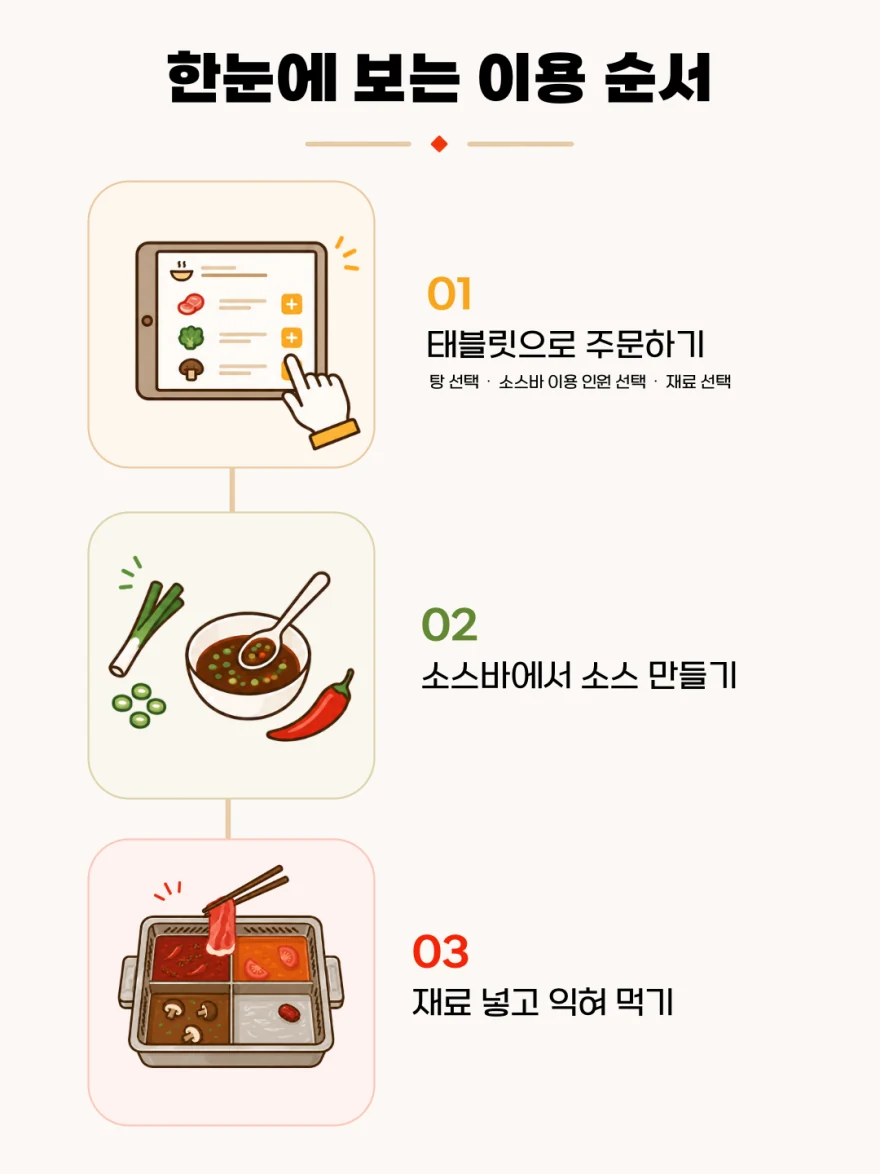
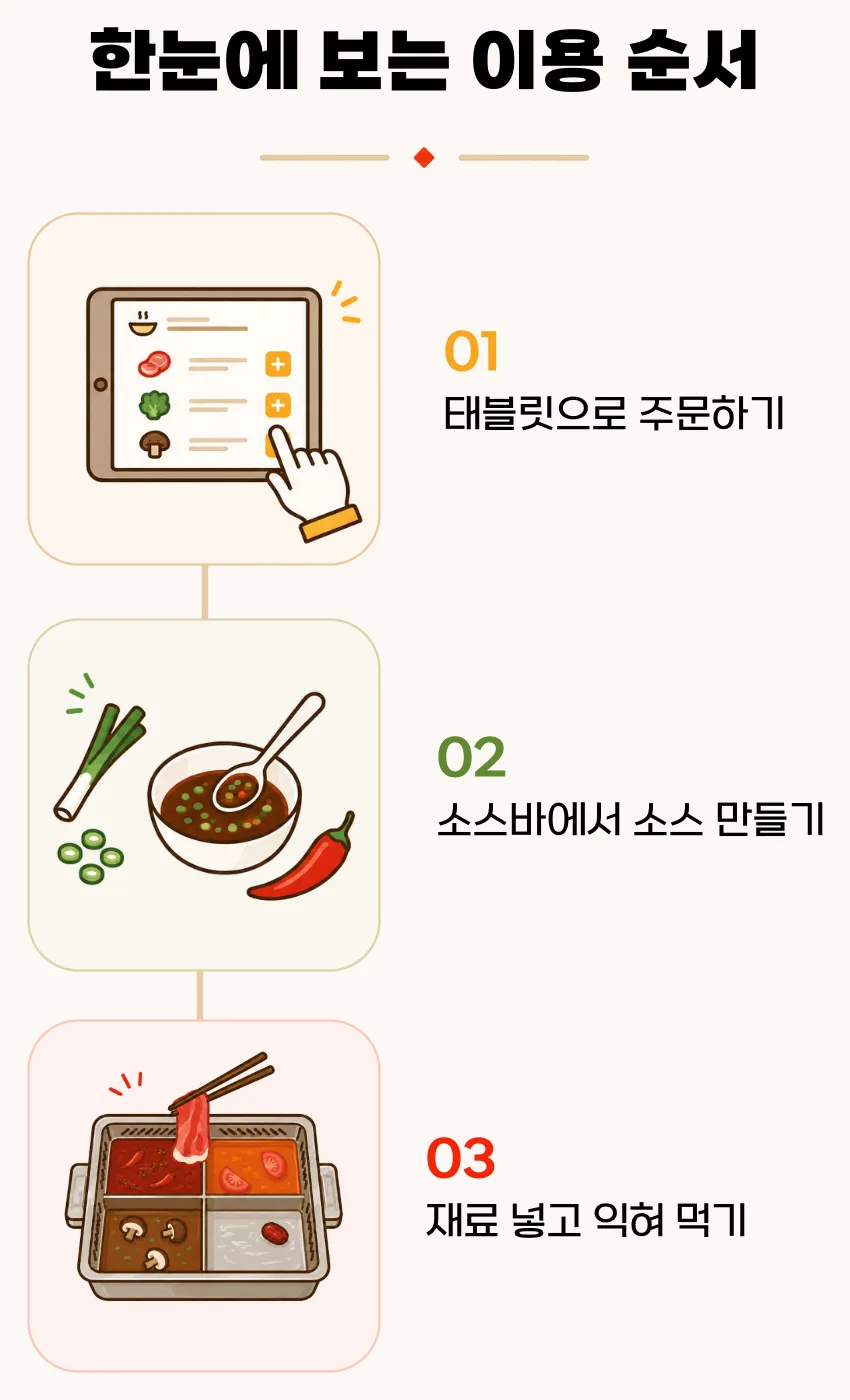
가이드 이미지 2장 교체본 반영
사용자가 다시 만든 '한눈에 보는 이용 순서'·'태블릿으로 주문하기' 원본을
webp로 변환해 넣었다. 비율이 바뀌어서 width/height 속성도 새 크기로 맞췄다
(안 맞추면 이미지 로드 전 자리가 어긋난다).

- order-overview  880×1174 → 850×1400 (원본이 850이라 확대 안 함)
- tablet-order    880×660  → 880×620

diff --git a/script.js b/script.js
@@ -875,12 +875,12 @@
       '태블릿 주문부터 소스 만들기까지, 하딜고고가 하이디라오를 편하게 즐길 수 있도록 도와드릴게요.</p>' +
       // 이미지 안에 제목과 01·02·03 문구가 다 있어 웹 글자로 중복 표시하지 않음(사용자 지정).
       '<figure class="col-figure col-figure--no-caption">' +
-        '<img src="assets/columns/guide/order-overview.webp?v=1" width="880" height="1174" loading="lazy" decoding="async" alt="한눈에 보는 이용 순서 — 01 태블릿으로 주문하기, 02 소스바에서 소스 만들기, 03 재료 넣고 익혀 먹기">' +
+        '<img src="assets/columns/guide/order-overview.webp?v=2" width="850" height="1400" loading="lazy" decoding="async" alt="한눈에 보는 이용 순서 — 01 태블릿으로 주문하기, 02 소스바에서 소스 만들기, 03 재료 넣고 익혀 먹기">' +
       '</figure>' +
       '<h3>01 태블릿으로 주문하기</h3>' +
       '<p>자리를 안내받으면, 태블릿에서 가장 먼저 먹고 싶은 탕을 골라요.</p>' +
       '<figure class="col-figure col-figure--no-caption">' +
-        '<img src="assets/columns/guide/tablet-order.webp?v=1" width="880" height="660" loading="lazy" decoding="async" alt="태블릿 주문 화면에서 전골 4가지 맛을 골라 네 칸으로 나뉜 냄비가 표시된 모습">' +
+        '<img src="assets/columns/guide/tablet-order.webp?v=2" width="880" height="620" loading="lazy" decoding="async" alt="태블릿 주문 화면에서 전골 4가지 맛을 골라 네 칸으로 나뉜 냄비가 표시된 모습">' +
       '</figure>' +
       // '전골'은 태블릿 실제 선택지 명칭이라 그대로 쓰고, 그 뒤로는 탕·물 칸으로 통일(기획초안 지침).
       // 전골=냄비를 몇 칸으로 나눌지, 탕=각 칸에 담기는 국물 — 첫 방문자가 둘을 헷갈려서 한 문장에 관계를 드러냄.

diff --git a/index.html b/index.html
@@ -750,7 +750,7 @@
   </div>
 </div>
 
-<script src="script.js?v=430"></script>
+<script src="script.js?v=431"></script>
 
 <!-- Cloudflare Web Analytics --><script type='module' src='https://static.cloudflareinsights.com/beacon.min.js' data-cf-beacon='{"token": "d7c0ac8f66544156bca23d2c7f84c961"}'></script><!-- End Cloudflare Web Analytics -->
 </body>

diff --git a/HANDOVER.md b/HANDOVER.md
@@ -133,20 +133,24 @@ STEP 1에서 확정된 편집 판단(되돌리지 말 것):
 
 ```text
 /Users/Macmini_J/ClaudeCode/02. Data/Haidilgogo/main-banner/guide/
-├── 한눈에 보는 이용 순서.png       1080×1440
-├── 태블릿으로 주문하기.png          1448×1086
+├── 한눈에 보는 이용 순서.png        850×1400   (2026-07-28 교체)
+├── 태블릿으로 주문하기.png          1281×902   (2026-07-28 교체)
 └── 전골 맛 선택.png                 1000×650
 ```
 
 커밋된 웹용 사본:
 
 ```text
-assets/columns/guide/order-overview.webp         880×1174
-assets/columns/guide/tablet-order.webp            880×660
+assets/columns/guide/order-overview.webp         850×1400
+assets/columns/guide/tablet-order.webp            880×620
 assets/columns/guide/hotpot-flavor-select.webp    880×572
 ```
 
 원본은 삭제·덮어쓰지 않는다. 웹 사본은 원본 비율을 유지한다.
+변환은 `cwebp -q 82`(가로 880 초과면 `-resize 880 0`)로 한다. **880보다 작은 원본은 확대하지 않는다** —
+칼럼 본문 폭이 375px 화면에서 331px이라 2배(≈662px)면 충분하다. `한눈에 보는 이용 순서`가 그래서 850 그대로다.
+교체할 때는 `script.js`의 `width`/`height` 속성을 새 크기로 고치고 `?v=` 숫자를 올린다 —
+속성이 옛 비율이면 이미지가 뜨기 전 자리가 어긋난다.
 
 ## F. 검증·표시 결정
 
